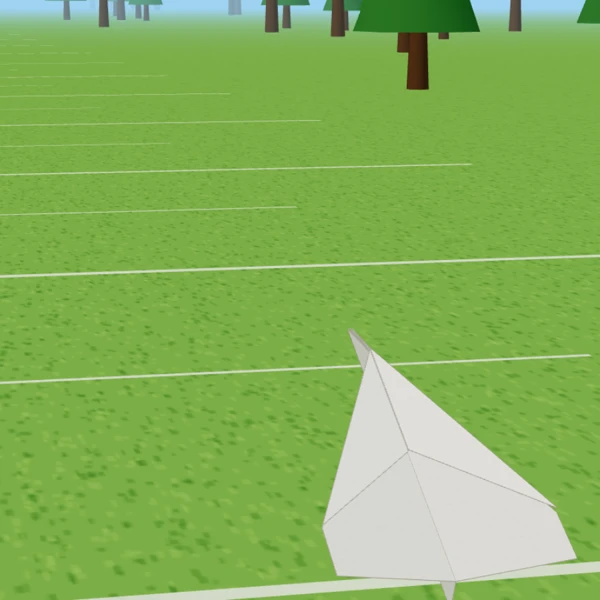
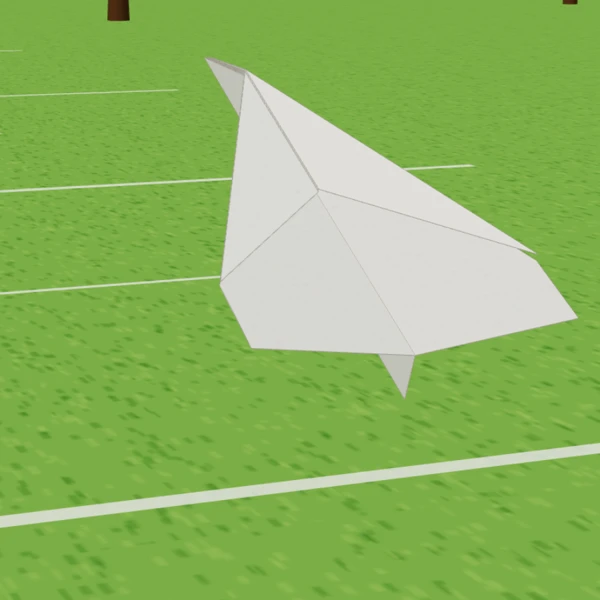
ザ・紙飛行機：サムネを機体に寄せて大きく撮り直す
Claude-Session: https://claude.ai/code/session_01Tm5rFxK6Q1gvmtU2Gz85Ny

diff --git a/games/kamihikouki/scene3d.js b/games/kamihikouki/scene3d.js
@@ -303,7 +303,7 @@
         this.camPos.lerp(want, s.state === "land" ? 0.06 : 0.3); this.camLook.lerp(look, 0.15);
       }
       /* サムネ用：飛んでいる機体を斜め前から撮る */
-      if (s.photo) { this.camPos.set(f.x - hx * 1.2 + hz * 0.35, f.y + 0.3, f.z - hz * 1.2 - hx * 0.35); this.camLook.set(f.x + hx * 0.3, f.y - 0.05, f.z + hz * 0.3); }
+      if (s.photo) { this.camPos.set(f.x - hx * 0.85 + hz * 0.35, f.y + 0.12, f.z - hz * 0.85 - hx * 0.35); this.camLook.set(f.x, f.y, f.z); }
       cam.position.copy(this.camPos); cam.up.set(0, 1, 0); cam.lookAt(this.camLook);
       this.trail.visible = !s.photo;
       var a = this.trail.geometry.attributes.position, n = Math.min(this.trailMax, s.trail.length);
